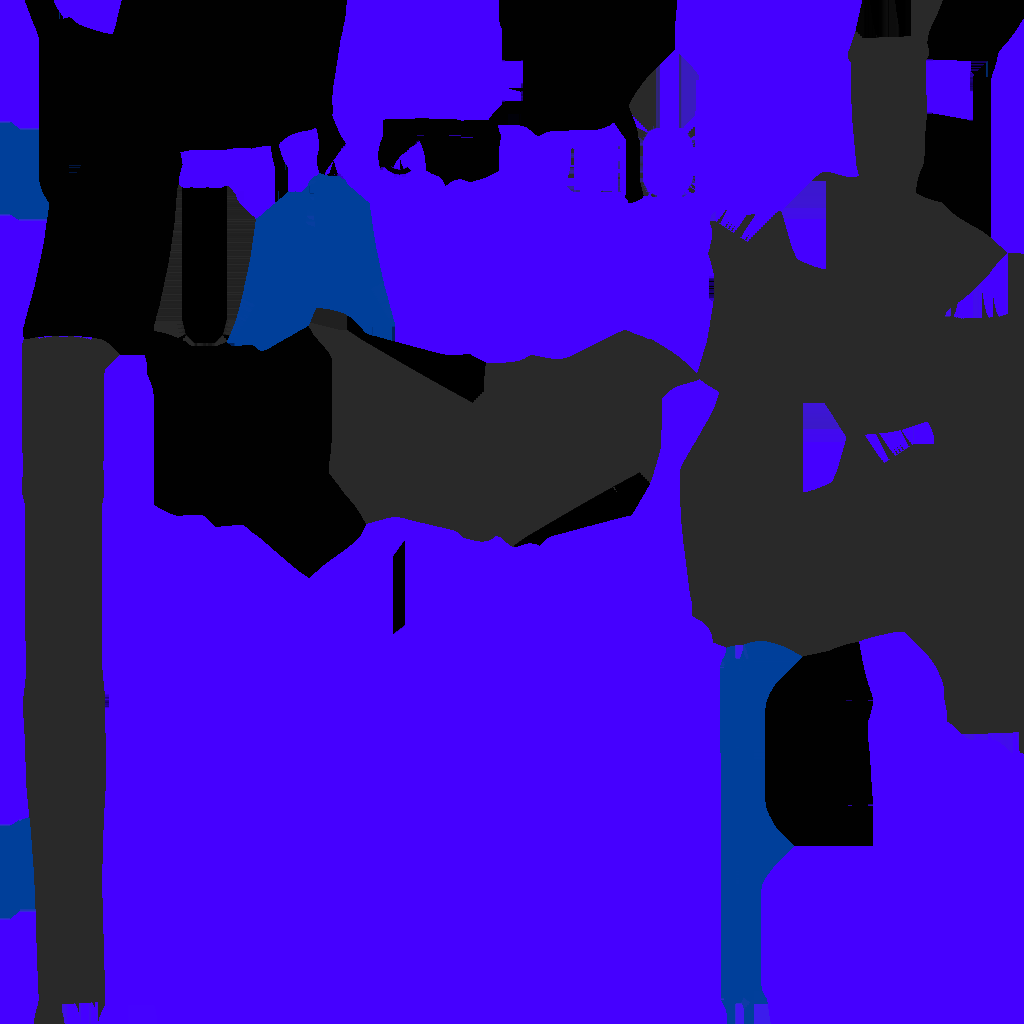
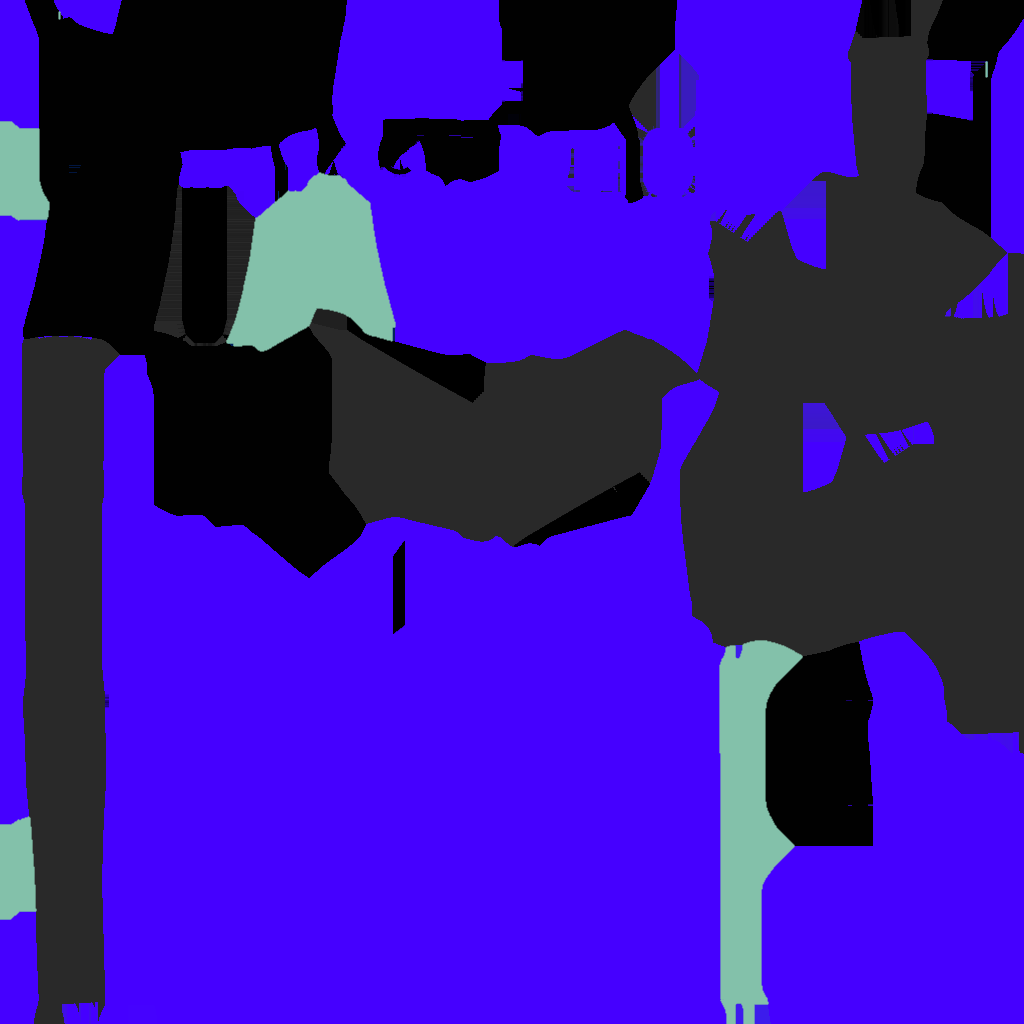
Added gun material swapping on overheat

diff --git a/Ghostbait/Ghostbait/Source Files/Gun.cpp b/Ghostbait/Ghostbait/Source Files/Gun.cpp
@@ -71,10 +71,12 @@ void Gun::Overheat::Update(bool active) {
 void Gun::Overheat::Overheated() {
 	overheated = true;
 	MessageEvents::SendMessage(EVENT_RequestSound, SoundRequestMessage(parent, AK::EVENTS::PLAY_SFX_GUNOVERHEAT));
+	parent->SwapComponentVarient<Material>("Red");
 }
 void Gun::Overheat::CooledDown() {
 	overheated = false;
 	MessageEvents::SendMessage(EVENT_RequestSound, SoundRequestMessage(parent, AK::EVENTS::PLAY_SFX_GUNCOOLDOWN_FINISHED));
+	parent->SwapComponentVarient<Material>("default");
 }
 void Gun::Overheat::Reset() {
 	currentEnergy = 0;
